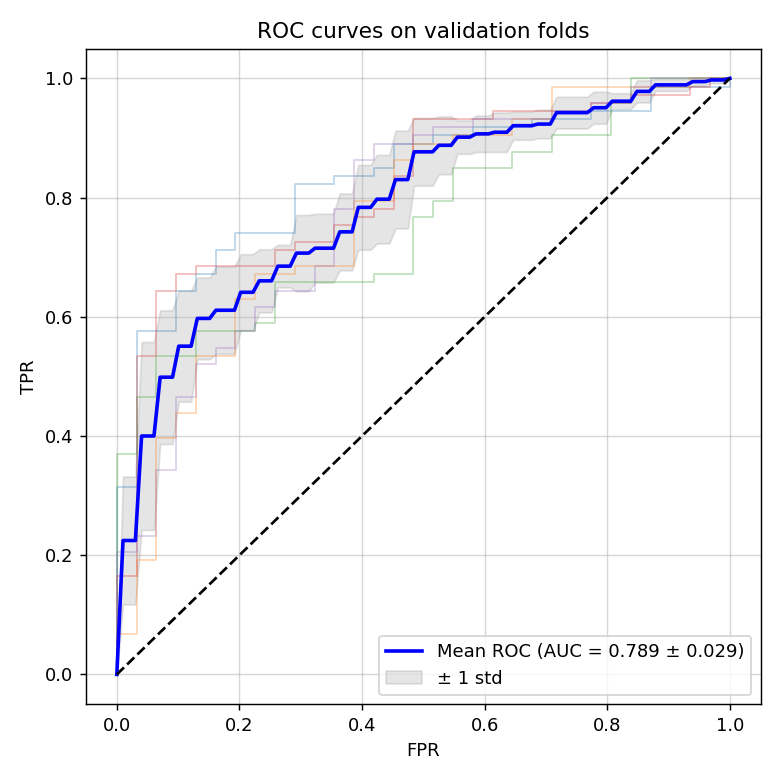
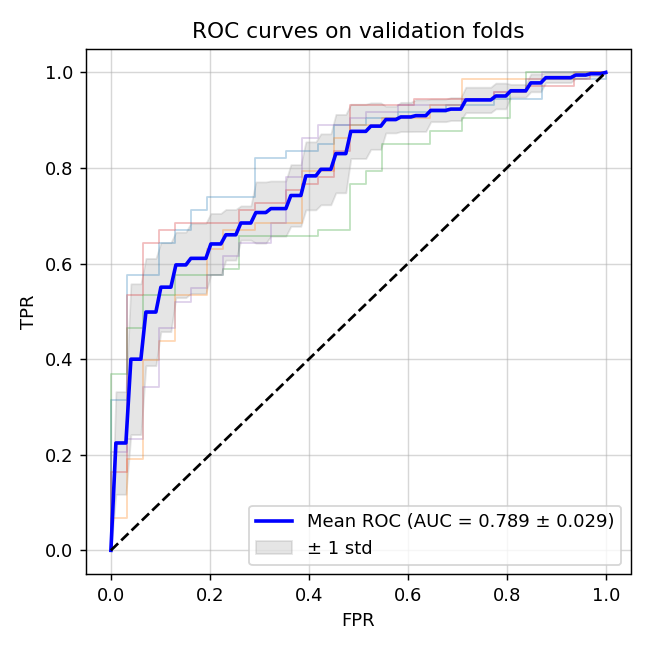
Fixed plots size

diff --git a/probe.py b/probe.py
@@ -88,7 +88,7 @@ class HallucinationProbe:
         all_probs = np.concatenate(cls._val_probs_all)
         all_preds = np.concatenate(cls._val_preds_all)
 
-        plt.figure(figsize=(6, 6))
+        plt.figure(figsize=(5, 5))
         tprs = []
         aucs = []
         mean_fpr = np.linspace(0, 1, 100)
